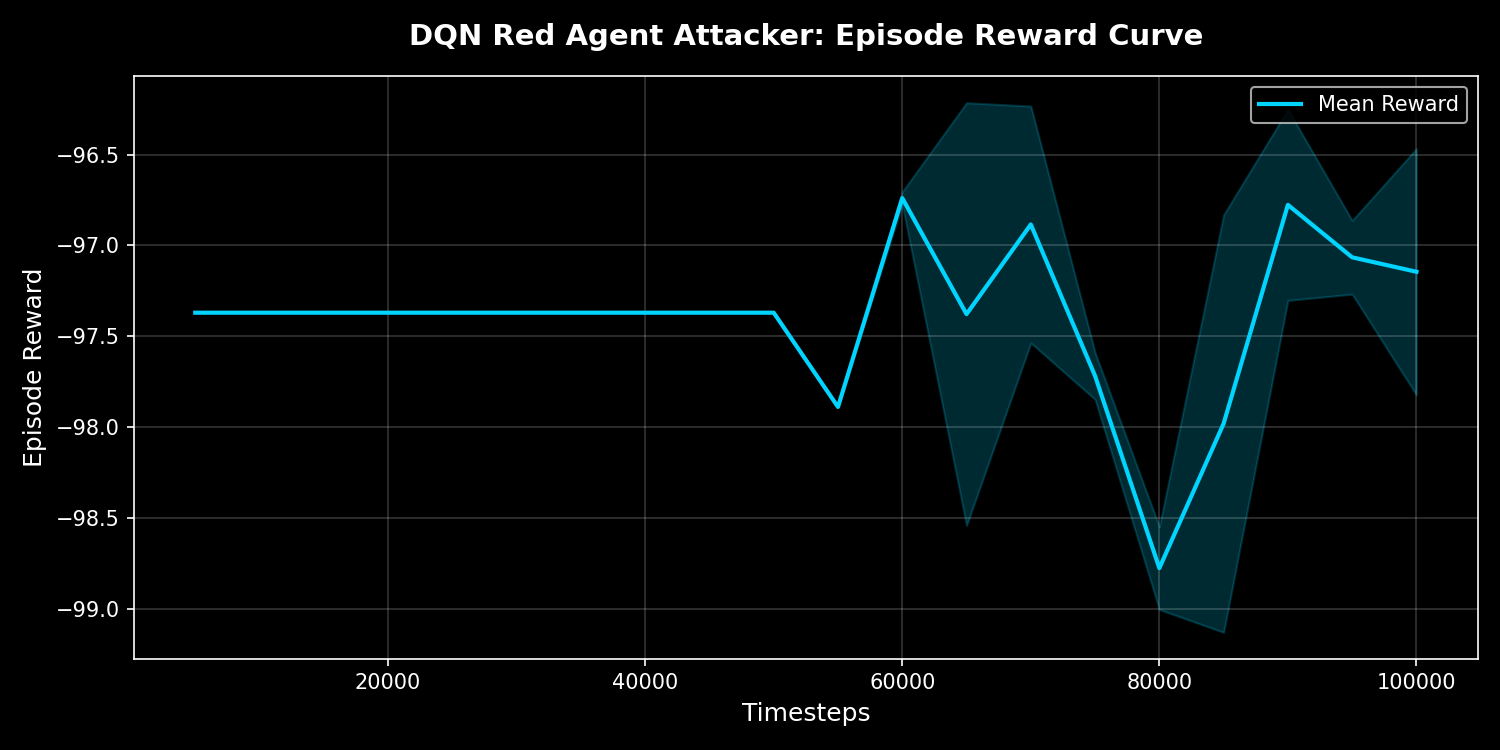
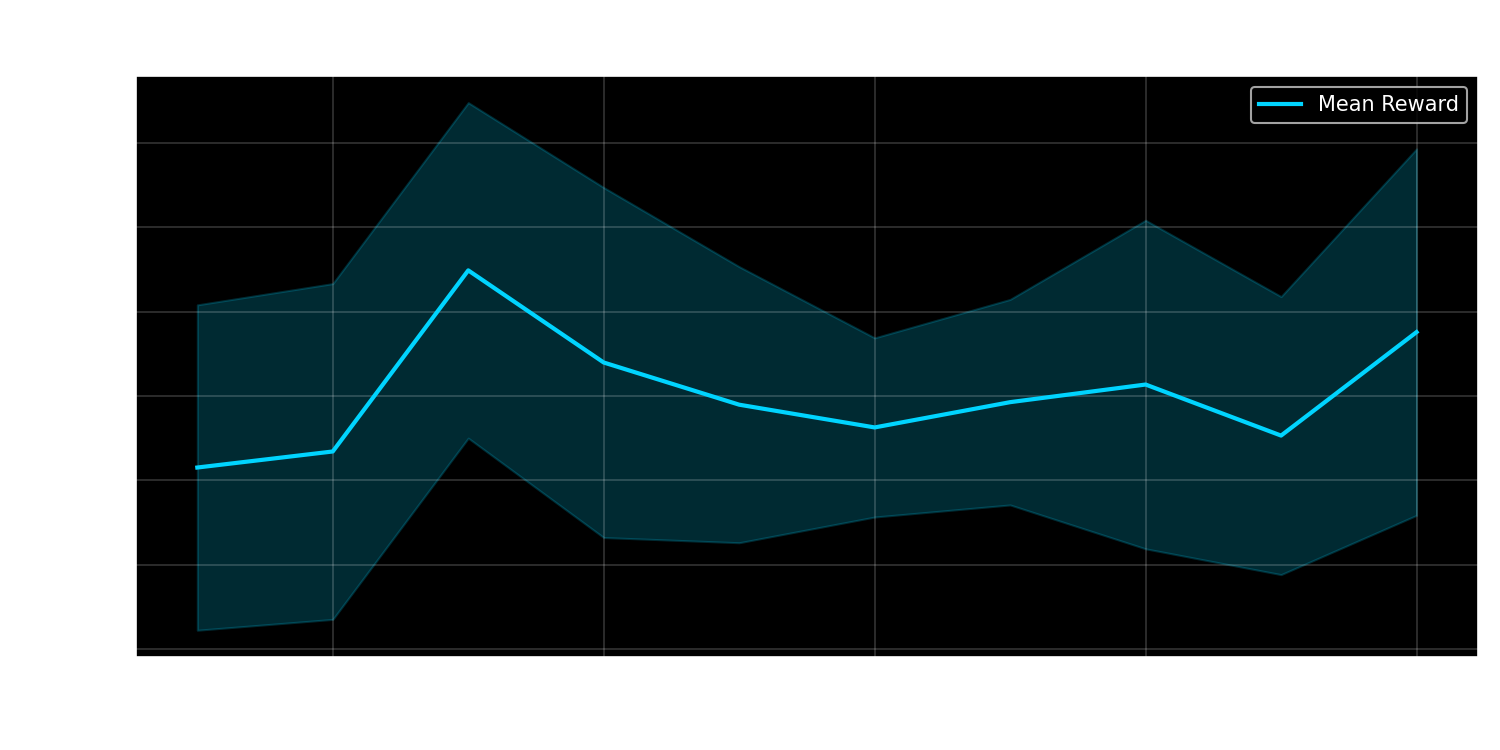
Update DQN agent and evaluation results

diff --git a/results/tables/adversarial_eval_table.tex b/results/tables/adversarial_eval_table.tex
@@ -10,7 +10,7 @@ RANDOM & 0.9000±0.0632 & 0.4470±0.0206 & -0.6536±0.6286 \\
 IDDFS & 0.9000±0.0632 & 0.1303±0.0096 & -0.8798±0.6306 \\
 A STAR & 0.9000±0.0632 & 0.2168±0.0255 & -0.8072±0.6304 \\
 ALPHA BETA & 0.9000±0.0632 & 0.1533±0.0402 & -0.8594±0.6408 \\
-DQN & 0.0000±0.0000 & 0.4392±0.0159 & -97.5054±0.0533 \\
+DQN & 0.0000±0.0000 & 0.3935±0.0172 & -97.2711±0.0741 \\
 \hline
 \end{tabular}
 \end{table}

diff --git a/src/evaluate.py b/src/evaluate.py
@@ -225,7 +225,7 @@ def run_full_adversarial_evaluation(config_path: str = "configs/default.yaml") -
 \end{tabular}
 \end{table}
 """
-    with open(tables_dir / "adversarial_eval_table.tex", "w") as f:
+    with open(tables_dir / "adversarial_eval_table.tex", "w", encoding="utf-8") as f:
         f.write(latex_str)
         
     # 5. Generate plots from evaluations.npz
